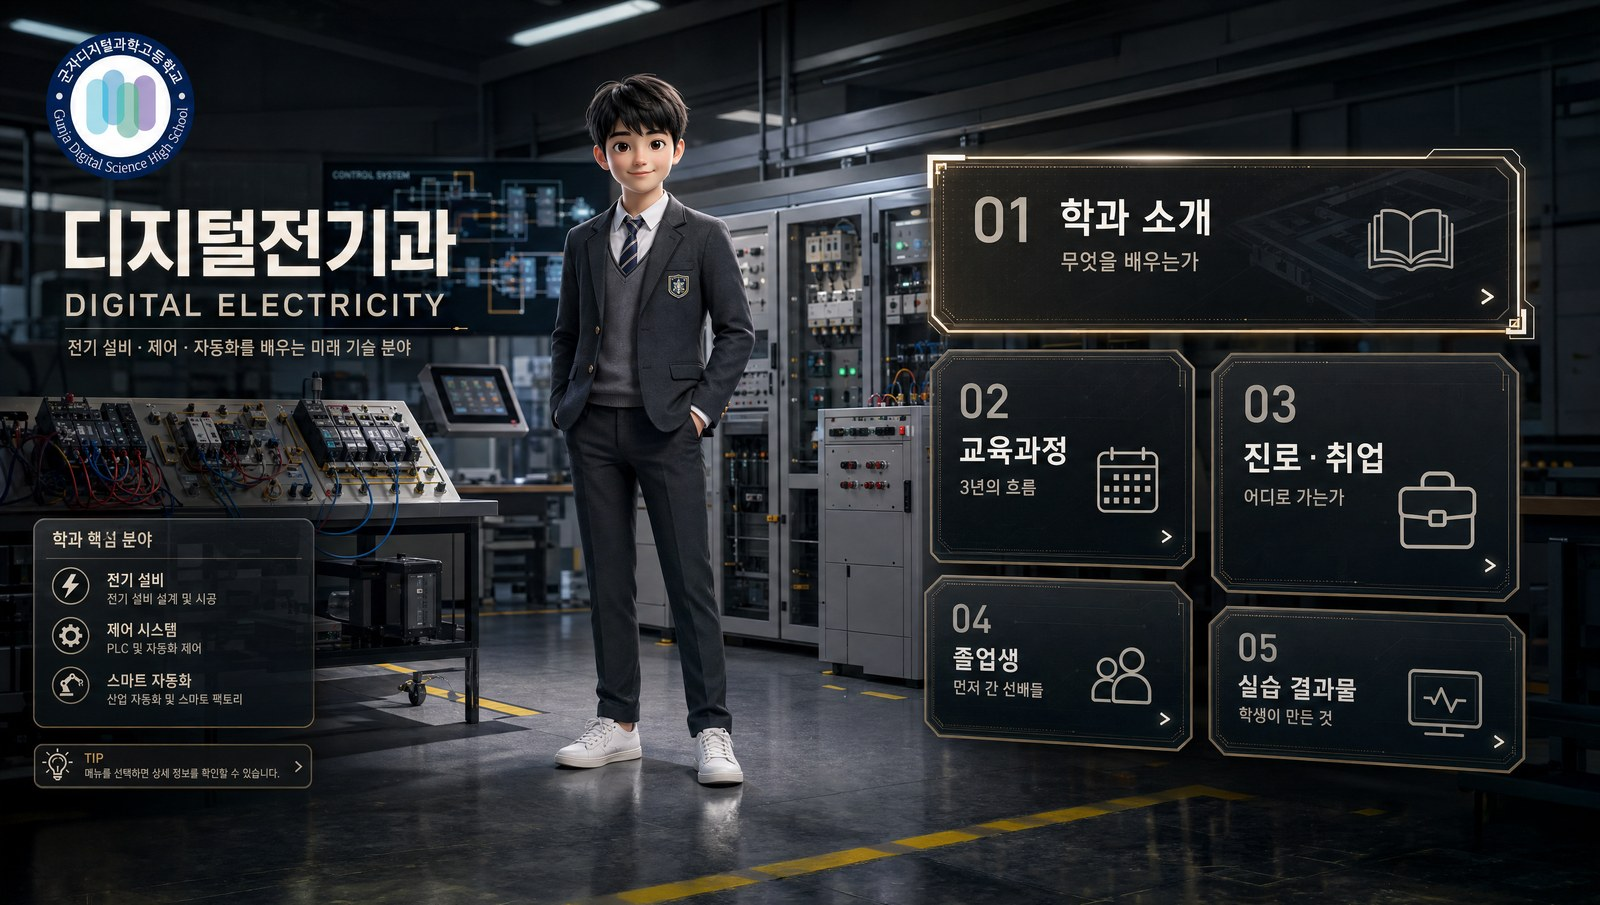
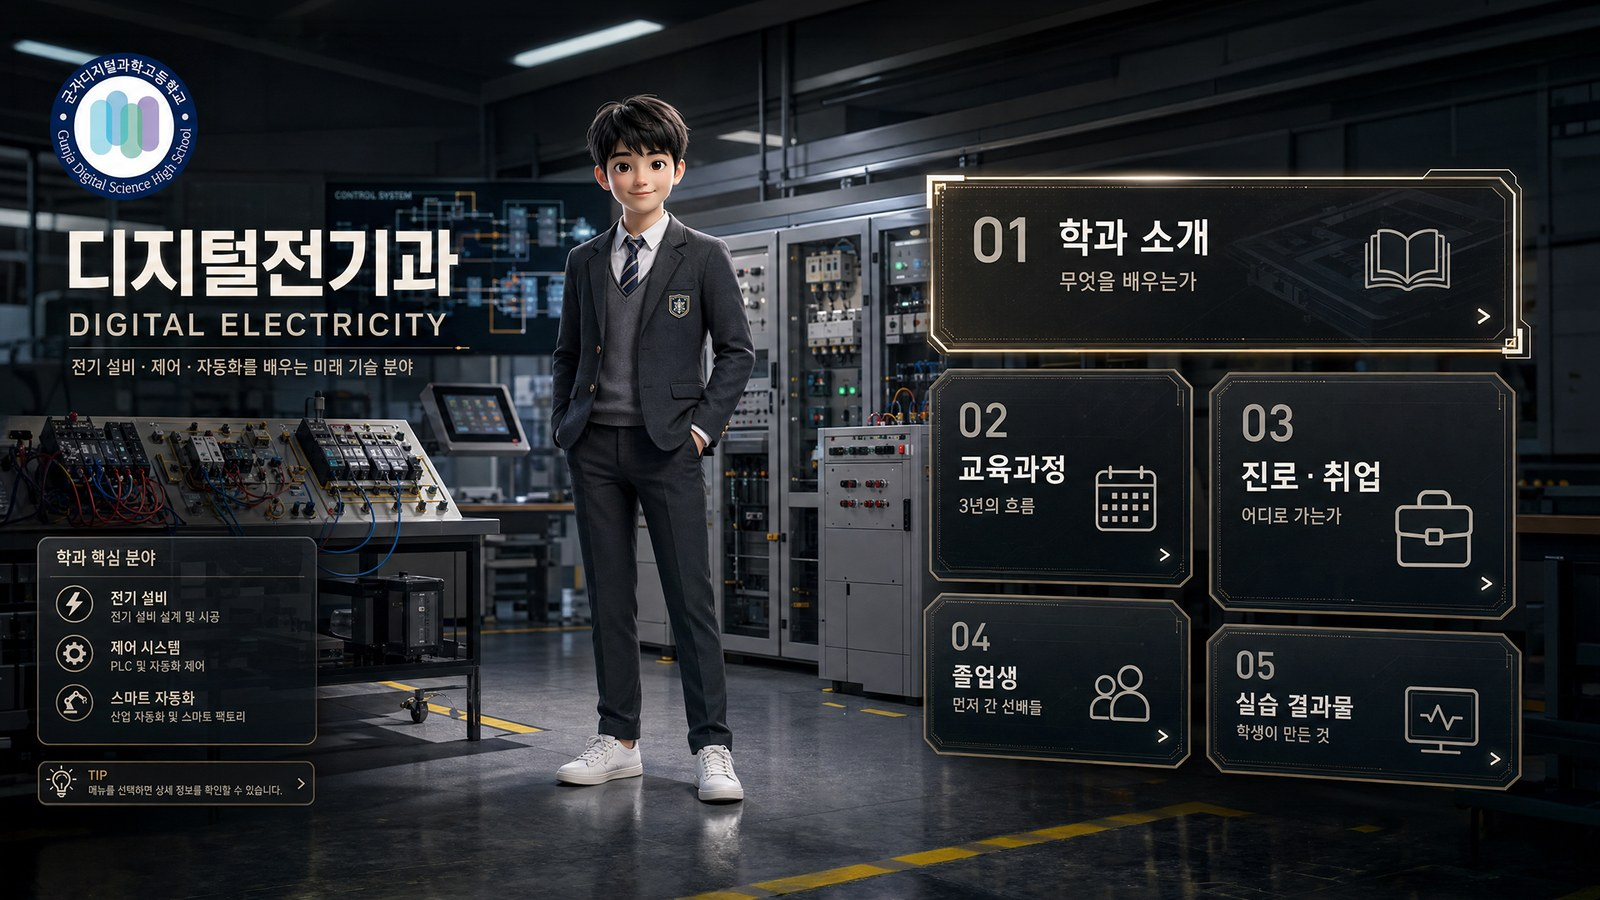
바닥 콘텐츠 확대 · 제원 태그 축소 · 부스 화면 교체
04p 바닥 콘텐츠
- 타일 4장을 클릭하면 원본 크기로 열린다. 16,200 × 2,500(6.48:1) 통짜라
  cover 로 채우면 3분의 2가 잘려 contain 으로 전폭을 보인다

05p·06p 우상단 제원 태그
- 15px → 7.5px. 본문이 아니라 곁다리 정보인데 눈에 먼저 들어왔다

06p 부스 화면
- 65" TV / 카운터 태블릿을 수정본으로 교체 (부스_tv_수정 · 부스_태블릿_수정)
  원본이 각 1.2MB 라 import_screen_assets.py 로 다시 구워 280KB / 143KB

diff --git a/index.html b/index.html
@@ -18,12 +18,12 @@
   <meta name="description" content="복도 바닥 프로젝션 · 대형 LED 미디어월 · 과 부스 5개소 — 콘텐츠 · 시스템 구축 계획." />
 
   <link rel="stylesheet" href="https://cdn.jsdelivr.net/gh/orioncactus/pretendard@v1.3.9/dist/web/static/pretendard.css" />
-  <link rel="stylesheet" href="css/tokens.css?v=20260821061000" />
-  <link rel="stylesheet" href="css/base.css?v=20260821061000" />
-  <link rel="stylesheet" href="css/slides.css?v=20260821061000" />
-  <link rel="stylesheet" href="css/storyboard.css?v=20260821061000" />
-  <link rel="stylesheet" href="css/proposal.css?v=20260821061000" />
-  <link rel="stylesheet" href="css/gunja.css?v=20260821061000" />
+  <link rel="stylesheet" href="css/tokens.css?v=20260821072000" />
+  <link rel="stylesheet" href="css/base.css?v=20260821072000" />
+  <link rel="stylesheet" href="css/slides.css?v=20260821072000" />
+  <link rel="stylesheet" href="css/storyboard.css?v=20260821072000" />
+  <link rel="stylesheet" href="css/proposal.css?v=20260821072000" />
+  <link rel="stylesheet" href="css/gunja.css?v=20260821072000" />
 </head>
 <body>
   <div id="boot"></div>
@@ -146,19 +146,19 @@
           <p class="subcopy" data-rise="2">네 종 모두 LiDAR 실시간 반응형입니다. <strong>01은 상시 기본</strong>으로 두고, <strong>나머지 3종은 학교가 내용을 바꿔</strong> 씁니다.</p>
           <div class="base-grid base-grid--4" data-rise="3">
             <div class="base-tile">
-              <img class="base-shot" src="assets/img/floor/f01-base-tile.jpg?v=3" alt="콘텐츠 01 빛의 결" />
+              <img class="base-shot" data-no-advance data-gallery="floor" data-index="0" src="assets/img/floor/f01-base-tile.jpg?v=3" alt="콘텐츠 01 빛의 결" />
               <span class="base-cap"><b>01 · 빛의 결<span class="tag-base">기본</span></b><span class="base-cap__s">발밑에서 빛의 결이 열리고 지나간 자리에 잔상이 남습니다. 상시 운영되는 디폴트 화면입니다.</span></span>
             </div>
             <div class="base-tile">
-              <img class="base-shot" src="assets/img/floor/f02-text-tile.jpg?v=3" alt="콘텐츠 02 데이터 스트림" />
+              <img class="base-shot" data-no-advance data-gallery="floor" data-index="1" src="assets/img/floor/f02-text-tile.jpg?v=3" alt="콘텐츠 02 데이터 스트림" />
               <span class="base-cap"><b>02 · 데이터 스트림<span class="tag-rec">문구 교체</span></b><span class="base-cap__s">흐르는 텍스트를 학교가 원하는 문구로 바꿉니다 — 교훈 · 학과명 · 행사 안내 · 신입생 이름.</span></span>
             </div>
             <div class="base-tile">
-              <img class="base-shot" src="assets/img/floor/f03-image-tile.jpg?v=3" alt="콘텐츠 03 키캡 그리드" />
+              <img class="base-shot" data-no-advance data-gallery="floor" data-index="2" src="assets/img/floor/f03-image-tile.jpg?v=3" alt="콘텐츠 03 키캡 그리드" />
               <span class="base-cap"><b>03 · 키캡 그리드<span class="tag-rec">이미지 교체</span></b><span class="base-cap__s">키캡 이미지를 원하는 그림으로 교체하고(학생 작품 · 과별 아이콘), 밟으면 <b>눌리는 · 회전하는</b> 반응까지 함께 지정합니다.</span></span>
             </div>
             <div class="base-tile">
-              <img class="base-shot" src="assets/img/floor/f04-art-tile.jpg?v=3" alt="콘텐츠 04 명화 파티클" />
+              <img class="base-shot" data-no-advance data-gallery="floor" data-index="3" src="assets/img/floor/f04-art-tile.jpg?v=3" alt="콘텐츠 04 명화 파티클" />
               <span class="base-cap"><b>04 · 명화 파티클<span class="tag-rec">베이스 교체</span></b><span class="base-cap__s">파티클이 그려내는 베이스 이미지를 교체합니다 — 현재 「별이 빛나는 밤」, 다른 명화나 학교 이미지로 대체 가능.</span></span>
             </div>
           </div>
@@ -310,10 +310,10 @@
 
   <!-- tech.js · cue-console.js · album-tabs.js · storyboard.js 는 담당하던 슬라이드가
        빠지면서 붙일 곳이 없어졌다. 파일은 deck/js 에 남겨 두고 로드만 끊는다. -->
-  <script src="js/gallery-data.js?v=20260821061000"></script>
-  <script src="js/room3d.js?v=20260821061000"></script>
-  <script src="js/corridor.js?v=20260821061000"></script>
-  <script src="js/imw-hover.js?v=20260821061000"></script>
-  <script src="js/deck.js?v=20260821061000"></script>
+  <script src="js/gallery-data.js?v=20260821072000"></script>
+  <script src="js/room3d.js?v=20260821072000"></script>
+  <script src="js/corridor.js?v=20260821072000"></script>
+  <script src="js/imw-hover.js?v=20260821072000"></script>
+  <script src="js/deck.js?v=20260821072000"></script>
 </body>
 </html>

diff --git a/css/gunja.css b/css/gunja.css
@@ -471,8 +471,10 @@
 /* HUD */
 .cw-ui { position: absolute; left: 64px; top: 58px; z-index: 12; pointer-events: none; }
 .cw-hint { margin-top: 13px; font: var(--fw-regular) 15px/1.5 var(--font); color: var(--fg-dim); }
+/* 우상단 제원 태그 — 15px 에서 절반으로. 본문이 아니라 곁다리 정보라
+   눈에 먼저 들어오면 안 된다. 줄간은 좁아진 글자에 맞춰 조금 벌린다. */
 .cw-spec { position: absolute; right: 64px; top: 58px; z-index: 12; text-align: right;
-  font: var(--fw-regular) 15px/1.75 var(--font); color: var(--fg-dim); }
+  font: var(--fw-regular) 7.5px/1.9 var(--font); color: var(--fg-dim); }
 .cw-spec b { color: var(--fg); font-weight: var(--fw-semibold); }
 .cw-pos { position: absolute; right: 64px; bottom: 58px; z-index: 12; text-align: right;
   font: var(--fw-regular) 14px/1.3 var(--font); color: var(--fg-dim); }
@@ -653,7 +655,7 @@
 /* HUD */
 .rm-ui { position: absolute; left: 64px; top: 58px; z-index: 12; pointer-events: none; }
 .rm-spec { position: absolute; right: 64px; top: 58px; z-index: 12; text-align: right;
-  font: var(--fw-regular) 15px/1.75 var(--font); color: var(--fg-dim); }
+  font: var(--fw-regular) 7.5px/1.9 var(--font); color: var(--fg-dim); }
 .rm-spec b { color: var(--fg); font-weight: var(--fw-semibold); }
 /* 관람 지점 9개 — 좌측 하단에 한 줄씩 세로로 쌓는다.
    2행으로 접으면 순서가 오른쪽 끝에서 왼쪽 처음으로 되돌아와 동선 목록으로 안 읽힌다.

diff --git a/js/gallery-data.js b/js/gallery-data.js
@@ -30,6 +30,22 @@ window.GALLERY = {
     ]
   },
 
+  /* 04p · 바닥 콘텐츠 4종 — 타일이 작아 결이 안 보인다. 클릭하면 원본으로 연다.
+     16,200 × 2,500(6.48:1) 통짜라 cover 로 채우면 3분의 2가 잘린다 — contain 으로 전폭을 보인다. */
+  floor: {
+    fit: 'contain',
+    items: [
+      { k: 'i', s: 'assets/img/floor/f01-base.jpg?v=3', t: '01 · 빛의 결',
+        m: '발밑에서 빛의 결이 열리고 지나간 자리에 잔상이 남습니다', spec: '기본 · 상시 운영' },
+      { k: 'i', s: 'assets/img/floor/f02-text.jpg?v=3', t: '02 · 데이터 스트림',
+        m: '흐르는 텍스트를 학교가 원하는 문구로 — 교훈 · 학과명 · 행사 안내', spec: '커스터마이징 · 문구 교체' },
+      { k: 'i', s: 'assets/img/floor/f03-image.jpg?v=3', t: '03 · 키캡 그리드',
+        m: '키캡 이미지를 학생 작품 · 과별 아이콘으로 교체 · 눌림 · 회전 반응', spec: '커스터마이징 · 이미지 교체' },
+      { k: 'i', s: 'assets/img/floor/f04-art.jpg?v=3', t: '04 · 명화 파티클',
+        m: '파티클이 그려내는 베이스 이미지를 교체 — 다른 명화나 학교 이미지로', spec: '커스터마이징 · 베이스 교체' }
+    ]
+  },
+
   /* 06p · 3D 안의 화면들 — 작고 비스듬해 내용이 안 읽힌다. 클릭하면 원본으로 연다.
      순서는 room3d.js zoom(0..3) 과 맞춰야 한다. */
   booth: {
